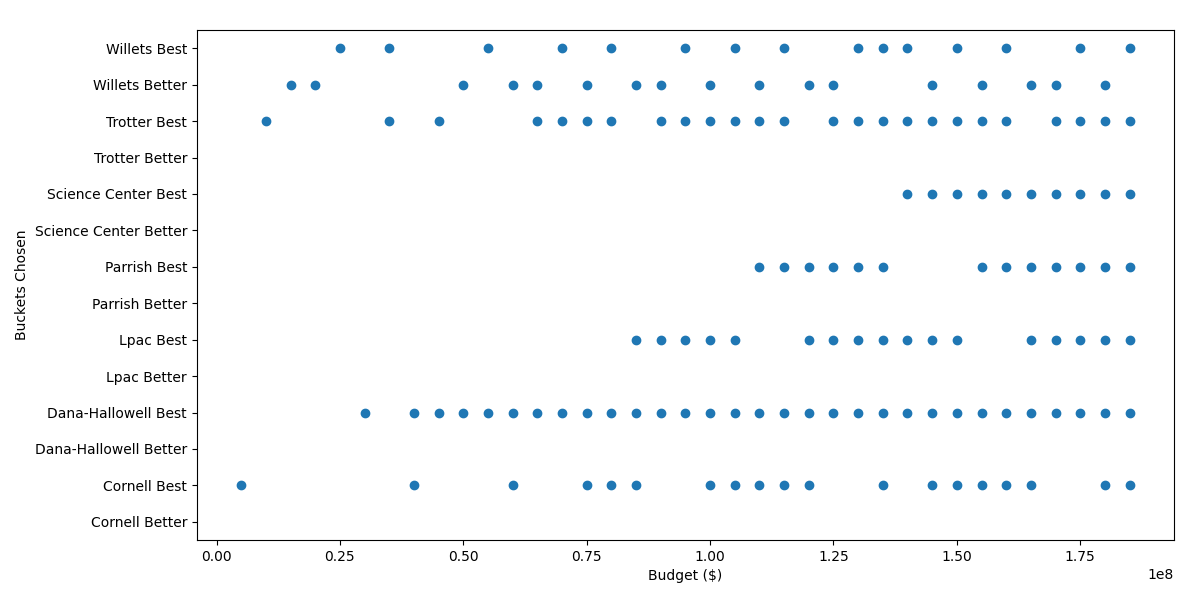
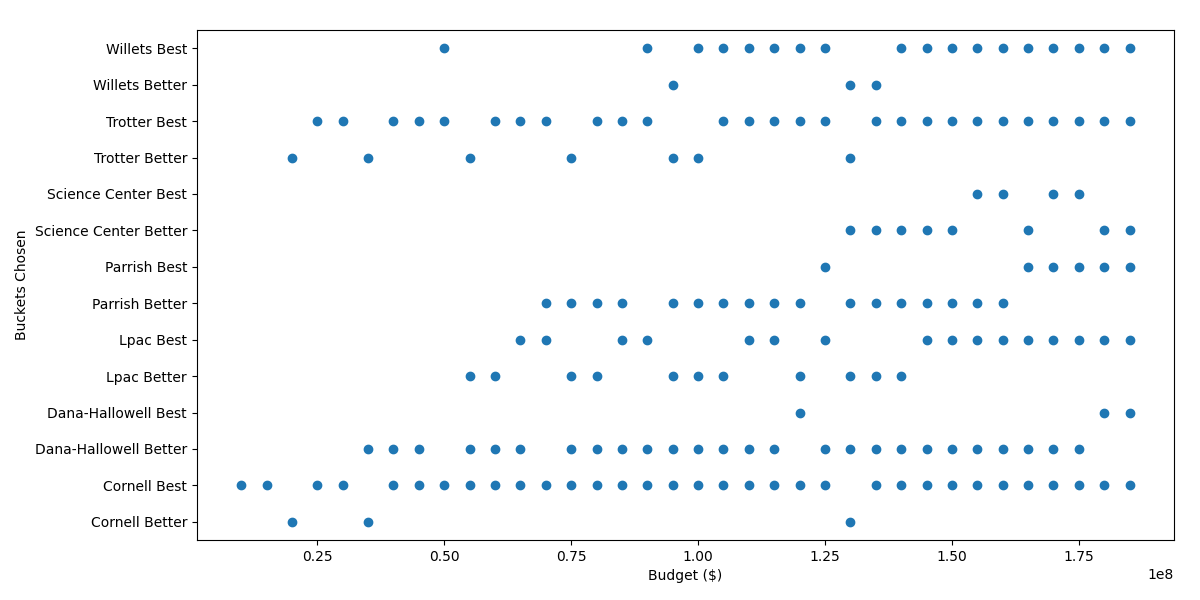
maximum buildings + priority for best

diff --git a/main.py b/main.py
@@ -2,6 +2,7 @@ import os
 import numpy as np
 import pandas as pd
 from minimizeFutureEnergyCost import minimizeFutureEnergyCost
+from mostBuildings import mostBuildings
 from plot import plot
 
 def get_csv_files(path):
@@ -25,16 +26,22 @@ def main():
     df = get_data()
     df_lthw = df.loc[df['Bucket'] != 'Current'] # filter out current bucket
 
+    # Total Annual Cost of Natural Gas for Current Buildings
+    print("Current Annual Cost of Natural Gas: $", sum(df.loc[df['Bucket'] == 'Current', 'Energy Cost ($/yr)']))
     # cost to build 
     costs = df_lthw['Cost($)'].to_numpy() 
+    # total cost of most expensive bucket for every pair of buckets
+    max_minimum = sum([max(costs[i], costs[i+1]) for i in range(0, len(costs), 2)]) 
+
 
     ###########################
     # Minimize energy costs if you have to spend
+
+    column_name = 'Annual Energy Use/EUI (kBTU/sqft/yr)'
+    # column_name = 'Energy Cost ($/yr)'
     outputs = []
     annual_costs = []
-    print("Current Annual Cost of Natural Gas: $", sum(df_lthw['Energy Cost ($/yr)']))
-    max_minimum = sum([max(costs[i], costs[i+1]) for i in range(0, len(costs), 2)]) # total cost of most expensive bucket for every pair of buckets
-    energy_costs = df_lthw['Energy Cost ($/yr)'].to_numpy() # future annual energy costs
+    energy_costs = df_lthw[column_name].to_numpy() # future annual energy costs
     increment = 5000000
     budgets = range(0, max_minimum, increment)
     for i in budgets:
@@ -50,6 +57,15 @@ def main():
         print("Minimum: $", budgets[i])
         rows = [i for i, val in enumerate(outputs[i]) if val == 1.0]
         print(df_lthw.iloc[rows, 0:2])
+
+    ##########
+    ## Maximize number of upgrade buildings
+    outputs = []
+    for i in budgets:
+        choices, num_buildings = mostBuildings(costs, i)
+        print("Number of buildings:", num_buildings)
+        outputs.append(choices)
+    plot(np.array(outputs), [], np.array(budgets), ylabel=[f"{a} {b}" for a, b in df_lthw.iloc[:, 0:2].to_numpy()])
 
 if __name__ == "__main__":
     main()

diff --git a/mostBuildings.py b/mostBuildings.py
@@ -1,0 +1,40 @@
+import pulp as pl
+
+# Given construction costs, future annual energy costs, and a minimum spending budget, 
+# pick the upgrades that minimize future energy costs.
+def mostBuildings(costs, budget):
+    n = len(costs)
+
+    # Define problem object
+    prob = pl.LpProblem("Problem", pl.LpMaximize)
+    # prob = pl.LpProblem("Problem", pl.LpMinimize)
+
+    # Define binary decision variables
+    vars = [pl.LpVariable(f"x{i}", cat=pl.LpBinary) for i in range(n)]
+
+    total_buildings = []
+    best_preference_bonus = []
+
+    for i in range(0, n, 2):
+        x_better = vars[i]
+        x_best = vars[i + 1]
+
+        # better, best are mutually exclusive
+        prob += x_better + x_best <= 1
+
+        # Each building can contribute at most 1 to the count
+        total_buildings.append(x_better + x_best)
+
+        # Add a small bonus for choosing 'Best'
+        best_preference_bonus.append(0.001 * x_best)
+
+    prob += pl.lpDot(costs, vars) <= budget
+
+    # problem to maximize - number of buildings + incentive for best
+    # prob += pl.lpSum(vars)  
+    prob += pl.lpSum(total_buildings) + pl.lpSum(best_preference_bonus)
+
+    prob.solve(pl.PULP_CBC_CMD(msg=False))
+    output = [v.value() for v in vars]
+    num = prob.objective.value()
+    return output, num
